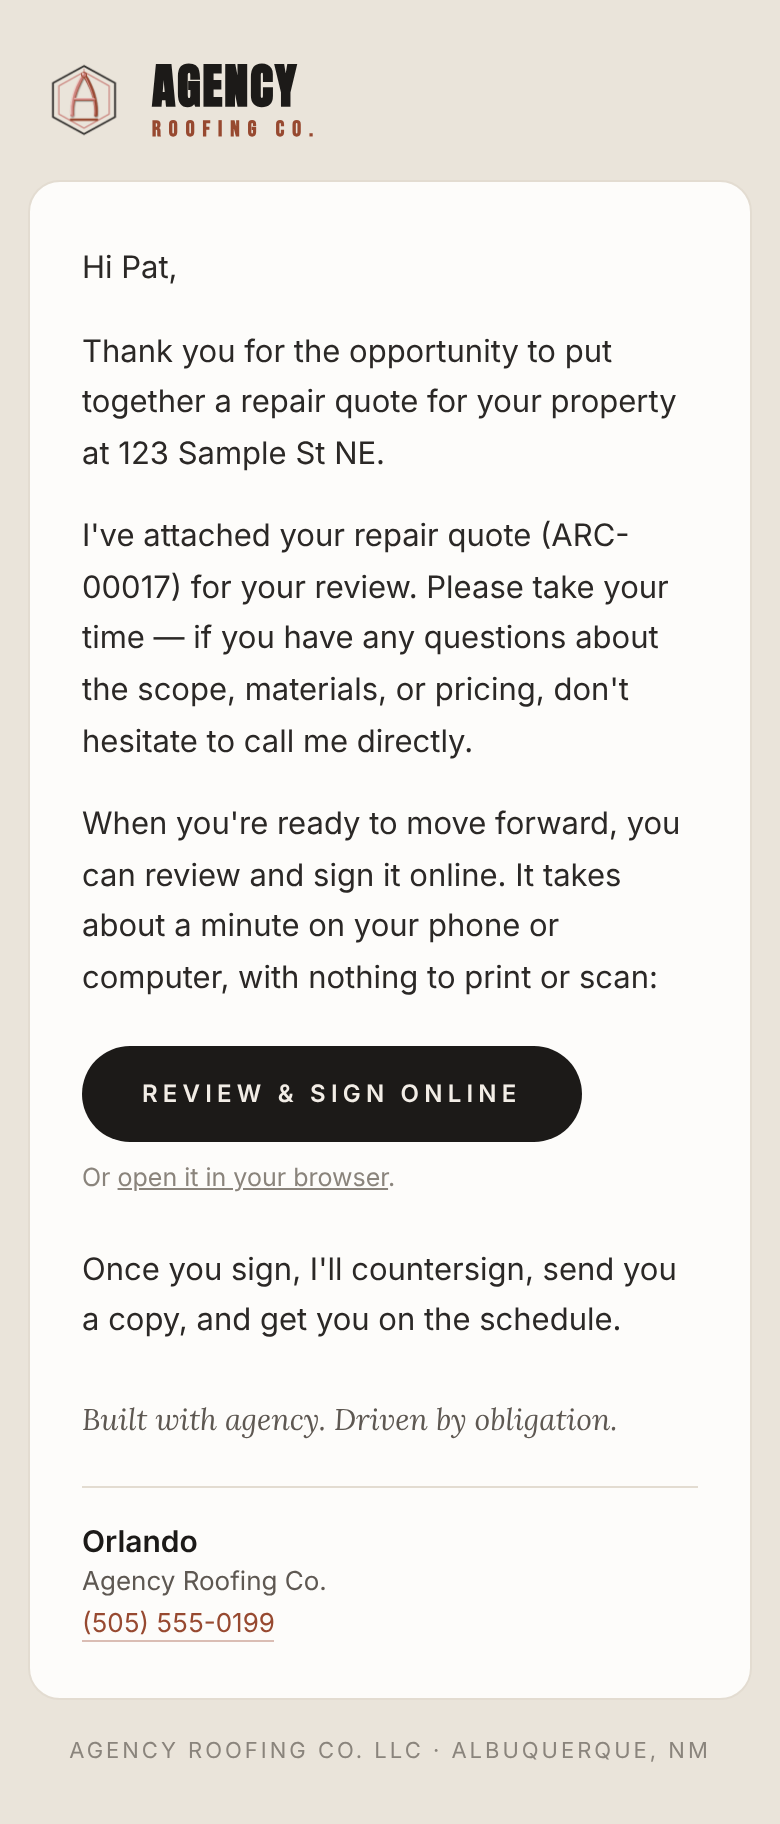
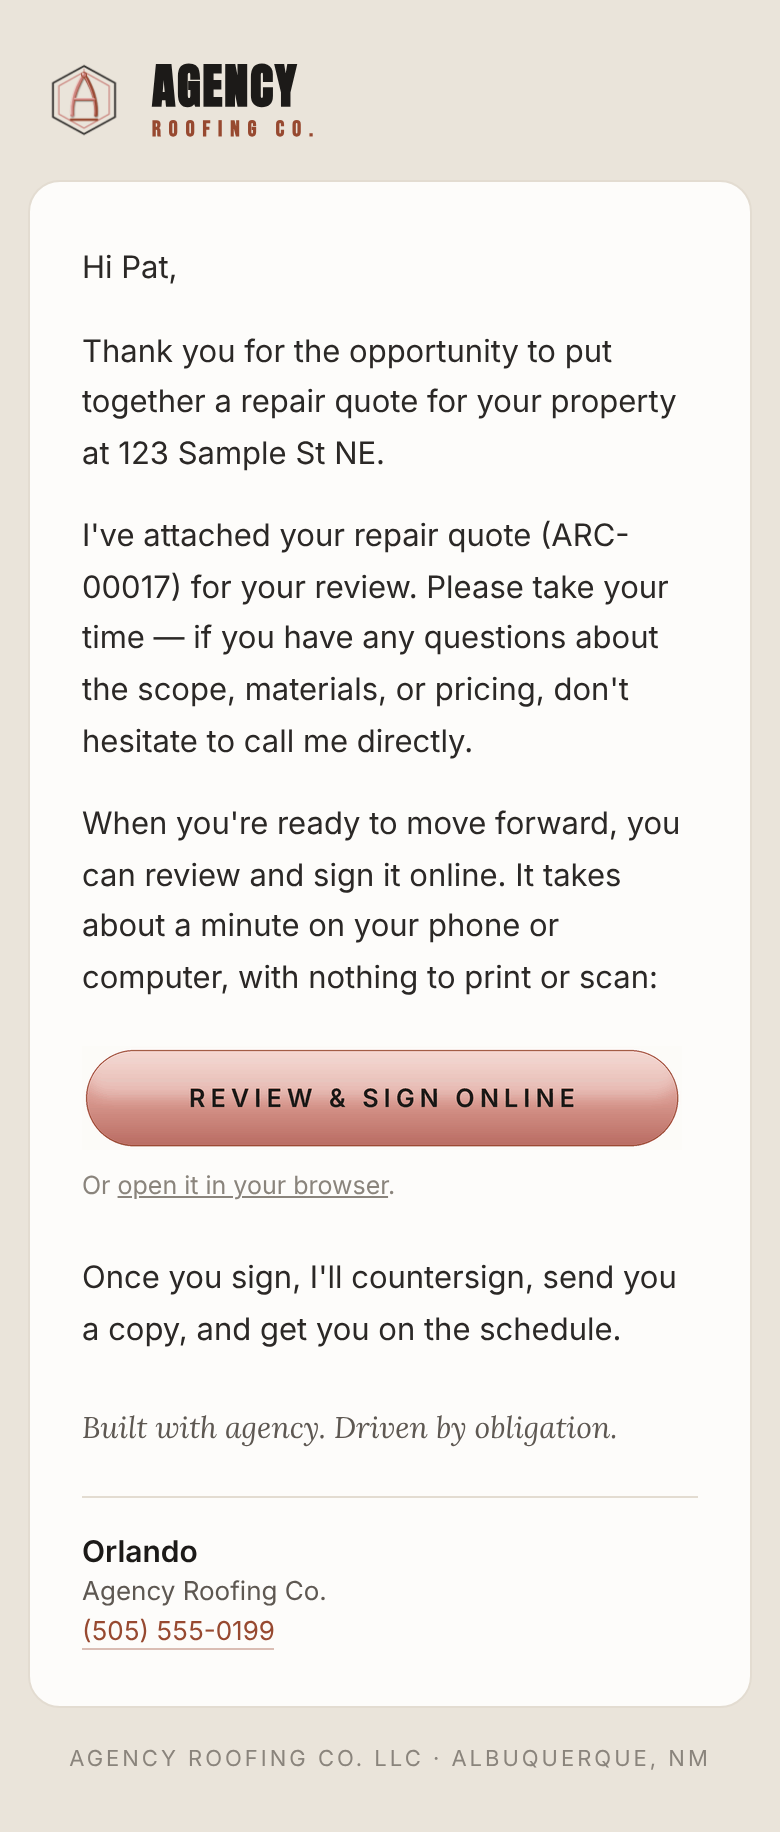
Rose-gold REVIEW & SIGN button with a right-to-left glint every few seconds (animated GIF, works in Gmail)
Claude-Session: https://claude.ai/code/session_01VViecfa8u8kXwoUcp96wSX

diff --git a/arcmail.js b/arcmail.js
@@ -123,9 +123,12 @@
     var SANS = "-apple-system,BlinkMacSystemFont,'Helvetica Neue',Inter,Helvetica,Arial,sans-serif";
     var SERIF = "Lora,Georgia,'Times New Roman',serif";
     var url = signUrl ? e(signUrl) : '';
+    // Rose-gold button = email/sign-button.gif (tools/make-sign-button.py): a glint crosses it right to left every few
+    // seconds. A GIF because Gmail/Outlook drop CSS animation. If images are blocked, the alt text shows on a rose-gold pill.
     var button = '<table role="presentation" cellpadding="0" cellspacing="0" border="0" style="margin:22px 0 10px"><tr>' +
-      '<td style="background:#1C1A18;border-radius:999px"><a href="' + url + '" style="display:inline-block;padding:14px 30px;font-family:' + SANS +
-      ';font-size:12px;font-weight:600;letter-spacing:2.6px;color:#F2EDE6;text-decoration:none">REVIEW &amp; SIGN ONLINE</a></td>' +
+      '<td style="background:#DEA096;border-radius:999px"><a href="' + url + '" style="display:block;text-decoration:none;color:#1C1A18">' +
+      '<img src="' + ARC_SITE + 'email/sign-button.gif" width="300" height="52" alt="REVIEW &amp; SIGN ONLINE" ' +
+      'style="display:block;border:0;width:300px;max-width:100%;height:auto;font-family:' + SANS + ';font-size:13px;font-weight:600;letter-spacing:2.4px;color:#1C1A18;text-align:center;line-height:52px"></a></td>' +
       '</tr></table><p style="margin:0 0 22px;font-family:' + SANS + ';font-size:12.5px;line-height:1.5;color:#8A847C">Or <a href="' + url +
       '" style="color:#8A847C;text-decoration:underline">open it in your browser</a>.</p>';
     var TAG = 'built with agency. driven by obligation.';

diff --git a/tools/make-sign-button.py b/tools/make-sign-button.py
@@ -1,0 +1,64 @@
+# Builds email/sign-button.gif: the rose-gold REVIEW & SIGN ONLINE button used in customer emails (arcmail.js htmlBody).
+# A soft glint crosses it right to left (like the shield) every few seconds. Animated GIF because Gmail and Outlook
+# drop CSS animations; first frame is the plain button, so clients that don't animate still show it clean.
+# Run: python3 tools/make-sign-button.py   (needs Pillow + Inter SemiBold)
+from PIL import Image, ImageDraw, ImageFont, ImageFilter
+import glob, os
+S = 3                      # supersample
+W, H = 600, 104            # GIF size (shown at 300x52 in the email)
+BG = (253, 252, 250)       # card color behind the pill
+font = ImageFont.truetype(glob.glob('/usr/share/fonts/opentype/inter/Inter-SemiBold.otf')[0], 25 * S)
+TEXT, SP = 'REVIEW & SIGN ONLINE', 5.2 * S
+
+def lerp(a, b, t): return tuple(int(a[i] + (b[i] - a[i]) * t) for i in range(3))
+STOPS = [(0, (246, 214, 207)), (.45, (222, 160, 150)), (1, (184, 106, 96))]   # rose gold, light top to deeper bottom
+def grad(y):
+    for (p0, c0), (p1, c1) in zip(STOPS, STOPS[1:]):
+        if y <= p1: return lerp(c0, c1, (y - p0) / (p1 - p0))
+    return STOPS[-1][1]
+
+w, h = W * S, H * S
+pad = 4 * S
+mask = Image.new('L', (w, h), 0)
+ImageDraw.Draw(mask).rounded_rectangle([pad, pad, w - pad, h - pad], radius=(h - 2 * pad) // 2, fill=255)
+base = Image.new('RGB', (w, h), BG)
+fill = Image.new('RGB', (w, h))
+d = ImageDraw.Draw(fill)
+for y in range(h): d.line([(0, y), (w, y)], fill=grad(y / h))
+# thin bright edge along the top for the polished-metal feel
+hl = Image.new('L', (w, h), 0)
+ImageDraw.Draw(hl).rounded_rectangle([pad + 2 * S, pad + 1 * S, w - pad - 2 * S, h // 2], radius=(h - 2 * pad) // 2, fill=70)
+hl = hl.filter(ImageFilter.GaussianBlur(6 * S))
+fill = Image.composite(Image.new('RGB', (w, h), (255, 255, 255)), fill, hl)
+metal = fill
+widths = [font.getlength(c) for c in TEXT]
+tw = sum(widths) + SP * (len(TEXT) - 1)
+ty = h / 2 - font.getbbox('R')[3] / 2 - font.getbbox('R')[1] / 2
+
+def frame(px=None):
+    f = metal
+    if px is not None:                   # the glint passes over the metal, under the letters
+        g = Image.new('L', (w, h), 0)
+        ImageDraw.Draw(g).polygon([(px, 0), (px + 60 * S, 0), (px + 15 * S, h), (px - 45 * S, h)], fill=165)
+        g = g.filter(ImageFilter.GaussianBlur(12 * S))
+        f = Image.composite(Image.new('RGB', (w, h), (255, 246, 242)), f, g)
+    f = f.copy(); d = ImageDraw.Draw(f); x = (w - tw) / 2
+    for c, cw in zip(TEXT, widths):
+        d.text((x, ty), c, font=font, fill=(28, 26, 24)); x += cw + SP
+    out = Image.composite(f, base, mask)
+    ImageDraw.Draw(out).rounded_rectangle([pad, pad, w - pad, h - pad], radius=(h - 2 * pad) // 2, outline=(151, 73, 48), width=int(1.2 * S))
+    return out
+
+pill = frame()
+
+frames, durs = [pill], [3200]
+N = 12
+for i in range(N):                       # right to left
+    px = w + 70 * S - (w + 200 * S) * (i + 1) / N
+    frames.append(frame(px)); durs.append(55)
+frames = [f.resize((W, H), Image.LANCZOS) for f in frames]
+pal = frames[N // 2].quantize(colors=200, method=Image.Quantize.MEDIANCUT)   # one shared palette keeps the file small
+frames = [f.quantize(palette=pal, dither=Image.Dither.NONE) for f in frames]
+out = os.path.join(os.path.dirname(__file__), '..', 'email', 'sign-button.gif')
+frames[0].save(out, save_all=True, append_images=frames[1:], duration=durs, loop=0, optimize=True, disposal=1)
+print(out, os.path.getsize(out), 'bytes')

diff --git a/tests/online-sign.test.py b/tests/online-sign.test.py
@@ -169,7 +169,7 @@ with sync_playwright() as p:
     ok('multipart/alternative' in raw and 'text/html' in raw and 'application/pdf' in raw, 'email = text + HTML + PDF attachment')
     parts = re.findall(r'Content-Type: text/html; charset="UTF-8"\r\nContent-Transfer-Encoding: base64\r\n\r\n([A-Za-z0-9+/=\r\n]+)', raw)
     html = base64.b64decode(parts[0].replace('\r\n', '')).decode() if parts else ''
-    ok('REVIEW &amp; SIGN ONLINE' in html and ('href="' + BASE + 'sign.html#' + tok) in html, 'HTML email has the Review & Sign button')
+    ok('REVIEW &amp; SIGN ONLINE' in html and 'sign-button.gif' in html and ('href="' + BASE + 'sign.html#' + tok) in html, 'HTML email has the Review & Sign button')
     open('/tmp/email.html', 'w').write(html)
     page.wait_for_timeout(500)
     page.evaluate("closePreview()")

diff --git a/CLAUDE.md b/CLAUDE.md
@@ -124,7 +124,7 @@ Owner and only user: **Orlando Montanez**. He runs it from **Safari on his iPhon
   The body is multipart/alternative: the plain text plus a branded HTML copy (`htmlBody`, Nov 18 2026 — he found the old one
   "very on your face"): stone page, small shield + AGENCY / ROOFING CO. header, off-white card, calm 15.5px type, the tagline in
   Lora italic, the sign-off under a hairline with the phone as a tap-to-call link. If the message contains the `signUrl`, that line
-  becomes a quiet ink pill **REVIEW & SIGN ONLINE** with "Or open it in your browser" under it (no raw link shown). Same words as
+  becomes a quiet rose-gold **REVIEW & SIGN ONLINE** button (`email/sign-button.gif`, built by `tools/make-sign-button.py`; a glint crosses it right to left every ~3 s, alt text on a rose-gold pill if images are off) with "Or open it in your browser" under it (no raw link shown). Same words as
   the plain text; never add or change wording here.
 - "Use the Mail app instead" in the sheet runs the older flow below. Sends are logged in the customer's activity log
   (the receipt page writes the log entry straight into `arc_v3`).
